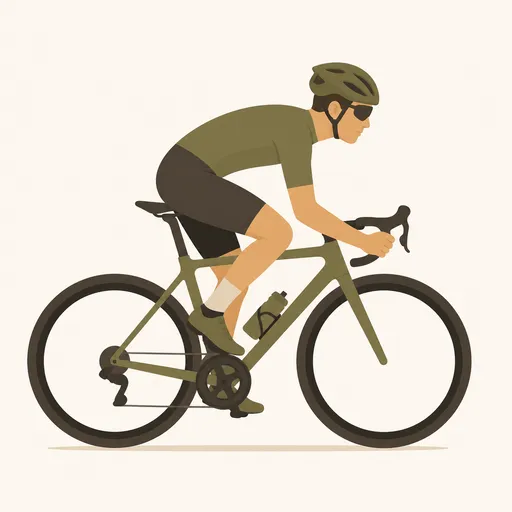
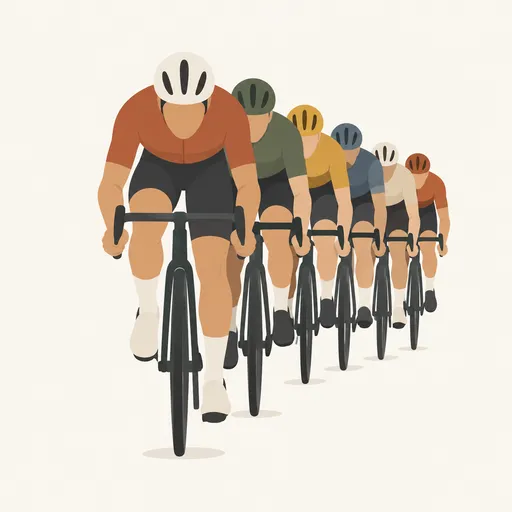
content: 회차 앞 pending이 짚은 넷을 줍는다
규칙 여덟을 적은 김에 그대로 돌려 봤다. food와 sport가 열려 있었다.

  food/choke-on de   Man darf sich nicht verschlucken.
                  →  Beim Lachen kann man sich verschlucken.
  food/pick-fruit en Rain stops them picking fruit.
                  →  When it rains they cannot pick fruit.

둘 다 표제형이 예문에 그대로 서지 못하던 자리다. 앞엣것은 부정어가 sich와
verschlucken 사이에 끼었고, 뒤엣것은 분사로 바꿔 썼다. 뚫을 자리가 생겼다 —
20·21과 5·26이다.

  sport/cycling  경주 자전거에 탄 인물 하나(옆) → 여섯이 정면으로 줄지어 오는 무리

활동과 사람을 같은 그림으로 그려 cyclist와 50이었다. 활동은 무리가, 사람은
혼자가 보여준다. 136이 됐고 bicycle 113 · marathon 109로 이웃과도 멀다.

diff --git a/docs/twins-pending.md b/docs/twins-pending.md
@@ -156,7 +156,7 @@
 | --- | ---: | --- | --- |
 | `school/paperclip`(클립)<br>`school/exam-paper`(시험지) | 54 · 0.19 | 클립 그림이 **종이 두 장을 물고 있어** 화면을 종이가 차지한다. `exam-paper`가 줄 쳐진 종이의 임자다 | **`paperclip`을 옮긴다** — 종이를 빼고 클립 하나만. 금속의 굽이가 보이게 비스듬히 |
 | `body/cornea`(각막)<br>`body/retina`(망막) | 57 · 0.25 | 둘 다 **안구 단면**이고 강조한 층만 다르다. 80×80에서는 강조가 안 보인다 | **`cornea`를 옮긴다** — 눈 전체가 아니라 **앞쪽만 크게 잘라** 돔이 화면을 채우게. 배율을 바꾸면 구도부터 갈린다 |
-| `sport/cycling`(사이클)<br>`sport/cyclist`(사이클 선수) | 50 · 0.25 | 둘 다 **경주 자전거에 탄 인물 하나**를 옆에서 본다. 활동과 사람을 같은 그림으로 그렸다 | **`cycling`을 옮긴다** — 사람 하나가 아니라 **여럿이 줄지어 달리는 무리**로. 활동은 무리가, 사람은 혼자가 보여준다 |
+| ~~`sport/cycling`(사이클)<br>`sport/cyclist`(사이클 선수)~~ | 50 → **136** | 둘 다 경주 자전거에 탄 인물 하나를 옆에서 봤다 | **끝냈다** — `cycling`을 여섯이 정면으로 줄지어 오는 무리로. `bicycle` 113 · `marathon` 109 |
 
 **셋 다 «개념이 이웃이라 어쩔 수 없다»가 아니다.** 각막과 망막은 배율로,
 사이클과 사이클 선수는 사람 수로 갈린다. 그림에서 **무엇을 화면에 채우는지**를

diff --git a/docs/examples-pending.md b/docs/examples-pending.md
@@ -113,8 +113,8 @@
 | action | `avoid` es | `evitar` | `evitan` |
 | action | `avoid` fr | `éviter` | `évitent` |
 | action | `excavate` en | `excavate` | `excavating` |
-| food | `choke-on` de | `sich verschlucken` | `sich nicht verschlucken` — 사이에 낱말이 끼었다 |
-| food | `pick-fruit` en | `pick fruit` | `picking fruit` |
+| ~~food `choke-on` de~~ | — | — | **끝냈다** — `Beim Lachen kann man sich verschlucken.` |
+| ~~food `pick-fruit` en~~ | — | — | **끝냈다** — `When it rains they cannot pick fruit.` |
 
 영어 셋은 모두 **분사로 바꿔 쓴 자리**다(`Rain stops them picking fruit.`).
 표제형을 그대로 세우려면 문장을 `They pick fruit before the rain.`처럼
